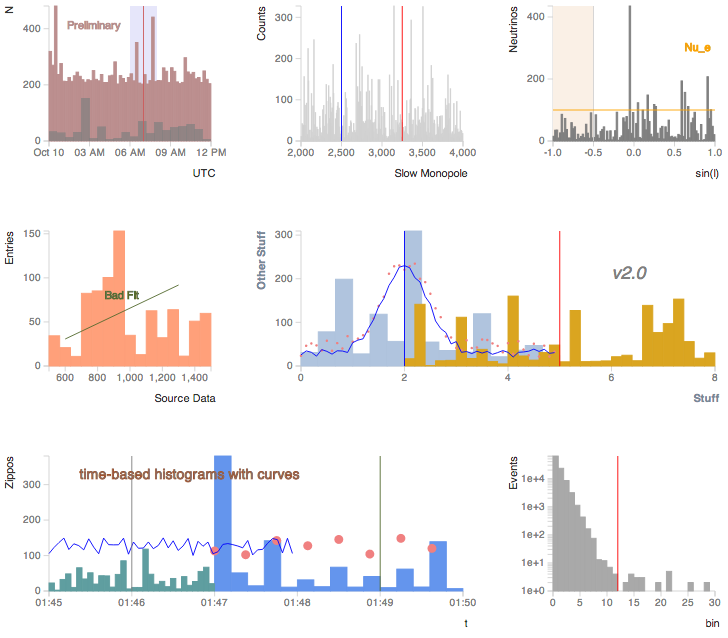
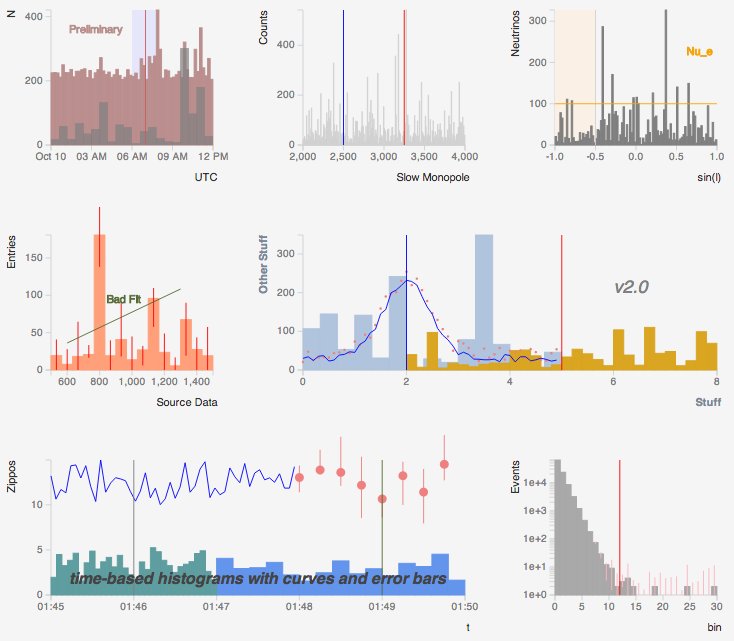
Issue 6521: (i3d3) Support addition of error bars on plots

diff --git a/example.html b/example.html
@@ -30,6 +30,11 @@ function testdata(n, offset) {
         .map(function(x) { return x + (offset && offset || 0) });
 }
 
+function errorbars(n, s) {
+   return _.map(_.range(n), function(i) {
+              return [Math.random() * s, Math.random() * s];
+          });
+}
 
 
 var t0 = new Date("2010-10-10 00:00:00");
@@ -90,9 +95,11 @@ i3d3.plot({data: [{type: "bars",
 
 data = testdata(15);
 i3d3.plot({data: [{type: "bars",
-              bins: data,
-              color: "lightsalmon",
-              range: [500, 1500]}],
+                   bins: data,
+                   errors: errorbars(15, 50),
+                   error_color: "red",
+                   color: "lightsalmon",
+                   range: [500, 1500]}],
            div: "plot5",
            size: [w, h],
            xlabel: "Source Data",
@@ -153,21 +160,23 @@ function tcurve(t0, t1, n, offset, jitter) {
 i3d3.plot({data: [{type: "lines",
                    values: tcurve(new Date("2013-01-10 13:45:00"),
                                   new Date("2013-01-10 13:48:00"),
-                                  50, 100, 50),
+                                  50, 10, 5),
                    color: "blue"},
                   {type: "points",
-                   values: tcurve(new Date("2013-01-10 13:47:00"),
+                   values: tcurve(new Date("2013-01-10 13:48:00"),
                                   new Date("2013-01-10 13:50:00"),
-                                  8, 100, 50),
-                   color: "lightcoral",
+                                  8, 10, 5),
+                   errors: errorbars(8, 4),
+                   color: "lightcoral", 
+                   error_color: "lightcoral", 
                    size: 5},
                   {type: "bars",
-                   bins: testdata(15),
+                   bins: _.map(testdata(15), Math.log),
                    color: "cornflowerblue",
                    range: [new Date("2013-01-10 13:47:00"),
                            new Date("2013-01-10 13:50:00")]},
                   {type: "bars",
-                   bins: testdata(30),
+                   bins: _.map(testdata(30), Math.log),
                    color: "cadetblue",
                    range: [new Date("2013-01-10 13:45:00"),
                            new Date("2013-01-10 13:47:00")]},
@@ -178,11 +187,10 @@ i3d3.plot({data: [{type: "lines",
              ylabel: "Zippos",
              extras: [{vbar: {pos: new Date("2013-01-10 13:46:00"), color: "grey"}},
                       {vbar: {pos: new Date("2013-01-10 13:49:00"), color: "darkolivegreen"}},
-                      {note: {x: w * 0.3, y: h * 0.3,
-                              text: "time-based histograms with curves",
+                      {note: {x: w * 0.25, y: h * 0.75,
+                              text: "time-based histograms with curves and error bars",
                               units: "pixels",
-                              color: "sienna",
-                              style: "font-size: 15;"}}]
+                              style: "font-size: 18; font-style: italic; font-weight: bold; fill: #444;"}}]
 });
 
 
@@ -201,7 +209,7 @@ function exponential_histo(nnoise, pwr_noise, nsignal, pwr_signal) {
     });
 
     var bins = _.map(_.range(30), function(i) {
-        return i3d3.existy(by_rounded[i]) ? by_rounded[i].length : 1;
+        return i3d3.existy(by_rounded[i]) ? by_rounded[i].length : 1; // 1 to handle log scale
     });
 
     return bins;
@@ -211,7 +219,9 @@ var eh = exponential_histo(100000, 500, 100, 5000);
 
 i3d3.plot({data: [{type: "bars",
                    bins: eh,
+                   errors: errorbars(30, 10),
                    color: "darkgray",
+                   error_color: "lightpink",
                    range: [0, eh.length]}],
            div: "plot8",
            yscale: "log",

diff --git a/i3d3.js b/i3d3.js
@@ -124,26 +124,41 @@ i3d3 = (function(i3d3, window, undefined) {
         for(i=0; i < barsets.length; i++) {
             xmin = barsets[i].range[0];
             xmax = barsets[i].range[1];
+            var x_for_bin = function(xmin, xmax, j) {
+                var x;
+                if(dotimes) {
+                    x = add_time_delta(xmin, (xmax-xmin) * j / barsets[i].bins.length);
+                } else {
+                    x = xmin + (xmax-xmin) * j / barsets[i].bins.length;
+                }
+                return xscale(x);                
+            };
             svg.append("g").attr("bars_" + i);
             svg.selectAll("bars_" + i + " rect")
                 .data(barsets[i].bins)
                 .enter()
                 .append("rect")
-                 .attr("x", function (d, j) {
-                      var x;
-                      if(dotimes) {
-                          x = add_time_delta(xmin, (xmax-xmin) * j / barsets[i].bins.length);
-                      } else {
-                          x = xmin + (xmax-xmin) * j / barsets[i].bins.length;
-                      }
-                      return xscale(x);
-                   })
+                .attr("x", function (d, j) { return x_for_bin(xmin, xmax, j); })
                 .attr("y", function (d) { return yscale(d); })
                 .attr("fill", barsets[i].color || "grey")
                 .attr("stroke", barsets[i].color || "grey")
                 .attr("width", (xscale(xmax) - xscale(xmin)) / barsets[i].bins.length - 0.1)
                 .attr("height", function (d) { return h - (padding + yscale(d)); })
                 .attr("opacity", barsets[i].opacity || 1);
+            if (barsets[i].errors) {
+                svg.selectAll("bars_errors_" + i + " path")
+                    .data(barsets[i].errors)
+                    .enter()
+                    .append("line")
+                    .attr("x1", function(d, j) { return x_for_bin(xmin, xmax, j + 0.5); })
+                    .attr("x2", function(d, j) { return x_for_bin(xmin, xmax, j + 0.5); })
+                    .attr("y1", function(d, j) { 
+                              return yscale(Math.max(do_y_log ? 1 : 0, 
+                                                     barsets[i].bins[j] - d[0])); 
+                     })
+                    .attr("y2", function(d, j) { return yscale(barsets[i].bins[j] + d[1]); })
+                    .style("stroke", barsets[i].error_color || "grey");
+            }
         }
 
         // Draw point sets
@@ -157,6 +172,21 @@ i3d3 = (function(i3d3, window, undefined) {
                 .attr("cy", function (d) { return yscale(d.y); })
                 .attr("r", pointsets[i].size || 4)
                 .attr("fill", pointsets[i].color || "grey");
+            if (pointsets[i].errors) {
+                svg.selectAll("points_errors_" + i + " path")
+                    .data(pointsets[i].errors)
+                    .enter()
+                    .append("line")
+                    .attr("x1", function(d, j) { return xscale(pointsets[i].values[j].x); })
+                    .attr("x2", function(d, j) { return xscale(pointsets[i].values[j].x); })
+                    .attr("y1", function(d, j) { 
+                              return yscale(Math.max(do_y_log ? 1 : 0, 
+                                                     pointsets[i].values[j].y - d[0])); 
+                     })
+                    .attr("y2", function(d, j) { return yscale(pointsets[i].values[j].y + d[1]); })
+                    .style("stroke", pointsets[i].error_color || "grey");
+                       
+            }
         }
 
         // Draw line sets

diff --git a/style.css b/style.css
@@ -1,3 +1,7 @@
+body {
+    background-color: whitesmoke;
+}
+
 .axis path, .axis line {
     fill: none;
     stroke: lightgrey;

diff --git a/README.md b/README.md
@@ -14,6 +14,8 @@ The following examples were all created from [this HTML](example.html):
 
 ![Example output](example.png "Example output")
 
+The HTML is pretty self-explanatory and serves as API documentation for the time being :-).
+
 ### Background
 
 We looked around at 
@@ -38,13 +40,13 @@ are (watch this space for updated status as the project progresses):
 - Wrap everything in an object to avoid namespace pollution
 - Time series X-axes
 - Log / linear y-axes
+- Two-sided error bars for points and histograms
 
 #### Not done, in order of priority
 
 - Minor (unlabled) gridline for X (or T) axes
 - Axis-free representations (sparklines)
 - Zooming / panning
-- Error bars
 - Exporting plot graphic (either SVG or PDF would be OK)
 - Show (x,y) plot coordinates of mouse [?]
 - Optional grids in chart backgrounds
